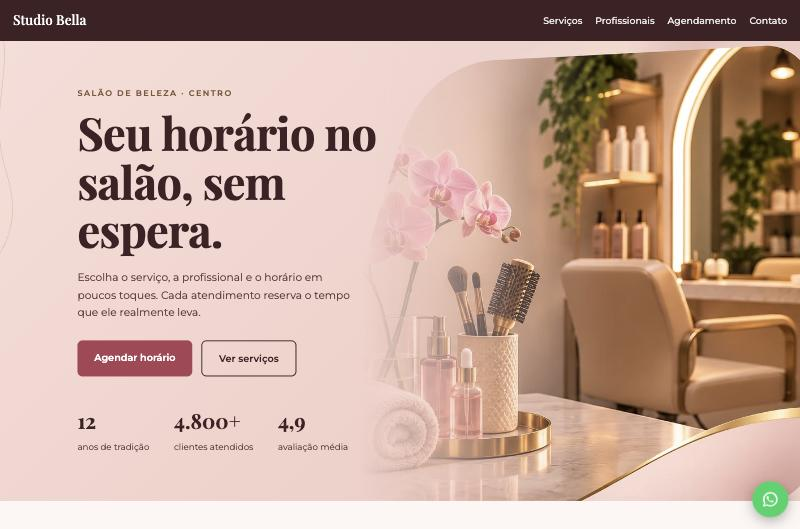
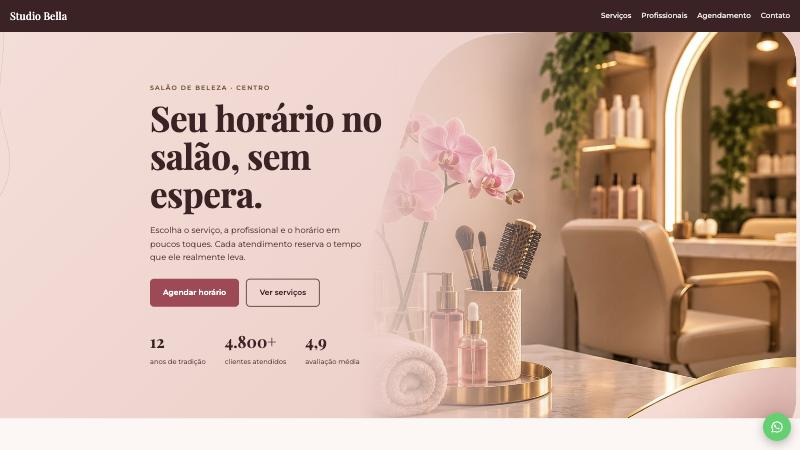
Aumenta a altura do topo para o enquadramento da referência
O hero estava com 714px de altura, o que cortava a bancada na
parte de baixo da foto. Subindo o mínimo para min(900px,86vh) a
proporção fica em 0.50 da largura, contra 0.507 da referência, e
a imagem passa a mostrar o tampo de mármore e a curva dourada.

No celular nada muda: a regra de altura mínima já era zerada lá.

diff --git a/assets/css/style.css b/assets/css/style.css
@@ -76,7 +76,7 @@ nav b a{font-size:inherit;opacity:1}
 .hero-img img{width:100%;height:100%;object-fit:cover;object-position:46% 38%;
   -webkit-mask-image:linear-gradient(to right,transparent 0,rgba(0,0,0,.28) 15%,rgba(0,0,0,.82) 40%,#000 58%);
           mask-image:linear-gradient(to right,transparent 0,rgba(0,0,0,.28) 15%,rgba(0,0,0,.82) 40%,#000 58%)}
-.hero{position:relative;z-index:1;display:flex;align-items:center;min-height:min(620px,78vh)}
+.hero{position:relative;z-index:1;display:flex;align-items:center;min-height:min(900px,86vh)}
 .hero-txt{max-width:min(52%,560px)}
 .hero h1{font-size:clamp(38px,6.2vw,70px);font-weight:700;letter-spacing:-.015em;line-height:1.08}
 .hero .lead{max-width:40ch;margin:22px 0 30px;color:var(--mut);font-size:16.5px}
